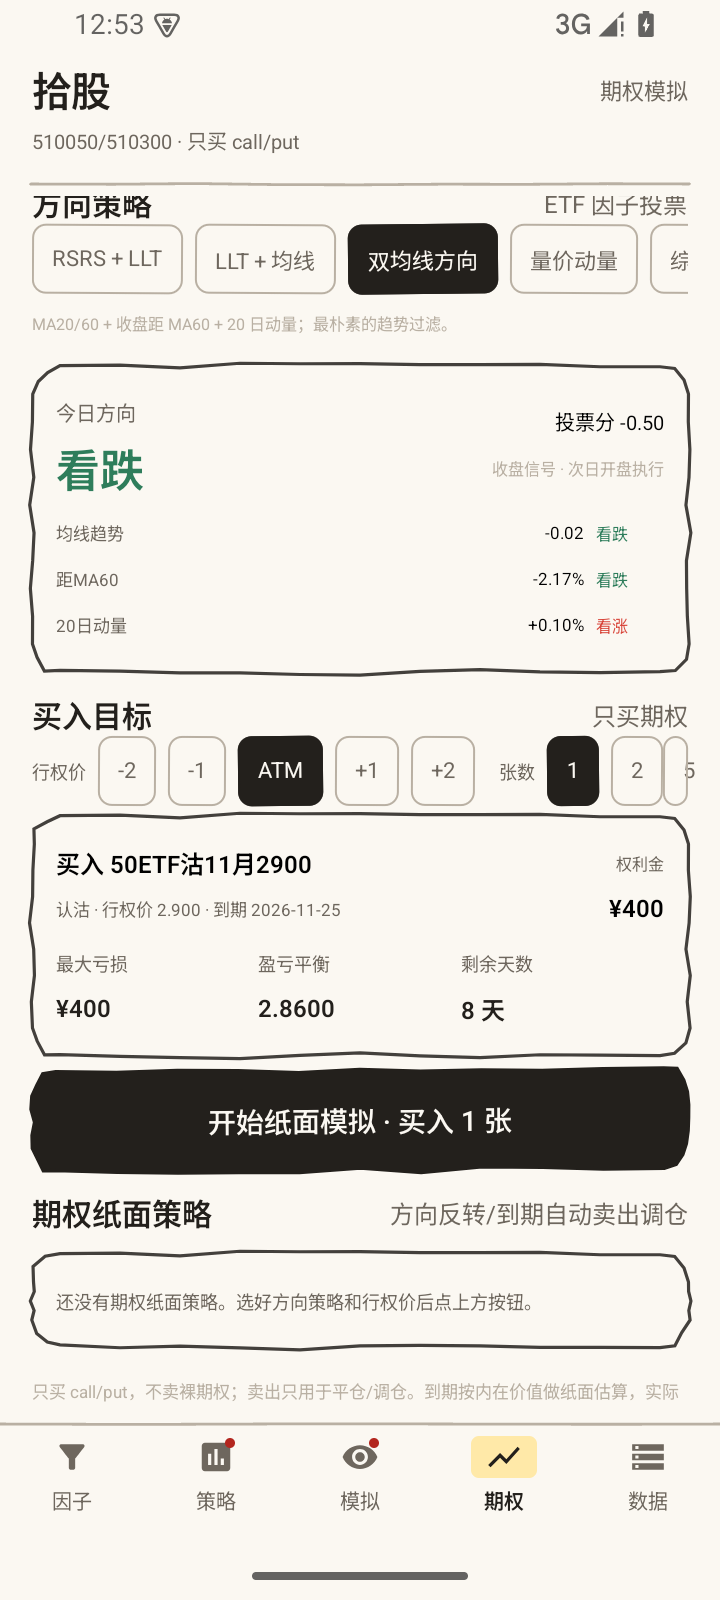
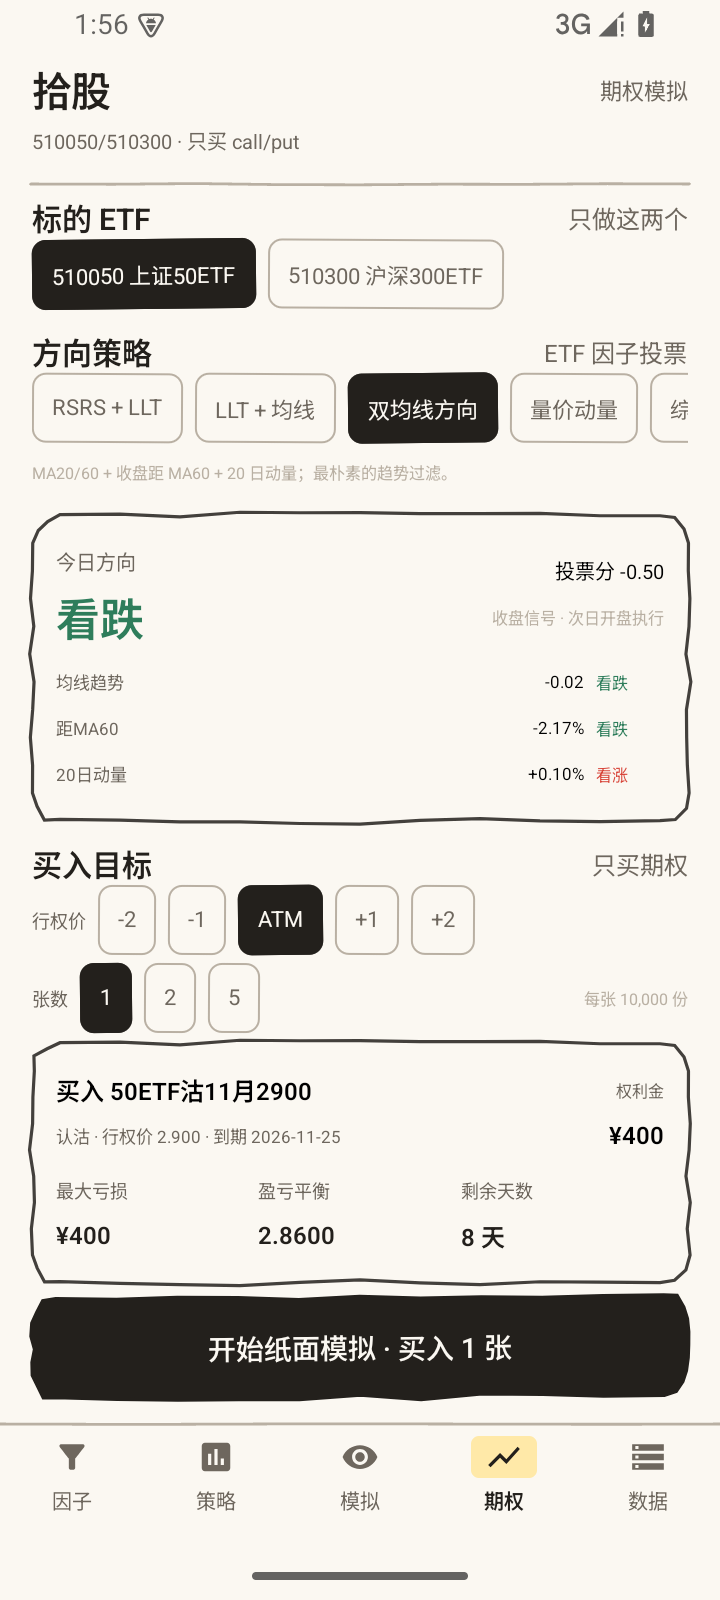
docs: 期权截图与数据说明更新

diff --git a/docs/STATUS.md b/docs/STATUS.md
@@ -38,7 +38,8 @@
   - 目标合约取最近剩余 >=3 天的到期月，ATM/±1/±2，1–20 张；
   - 方向反转、合约到期（剩余 <=2 天）或信号中性时卖出旧仓/买入新仓；同方向不因平值漂移换合约；
   - 显示权利金、最大亏损、盈亏平衡、剩余天数；纸面按快照价盯市，到期按内在价值估算；
-  - 实测东方财富期权链同步 98 个 510050/510300 合约，510050「双均线方向」得到看跌 -0.50，成功创建纸面策略。
+  - 数据：东方财富期权链快照；标的 ETF 日线复用本地数据；当前快照 + 每日纸面，不做历史期权回测；
+  - 实测：同步 98 个 510050 合约 + 116 个 510300 合约；自定义 LLT 正信号得到买入 50ETF购11月2900，成功创建/删除纸面策略。
 - 东方财富 F10 基础资料批量同步已验证：**5,579 只**，报告期 2026-09-30；财报历史 **6,705 条**（含公告日），状态变化历史 6,469 条。
 - 6 个内置策略 + 用户从因子页保存的自定义策略。
 - 回测：100 万初始资金、整手（科创 200）、次日开盘、等权、佣金 8bps + 卖出印花税 5bps + 过户费 + 滑点 5bps、止损/止盈/最大持有、涨停不买/跌停不卖、基准/超额/回撤/夏普、累计费用。
@@ -96,8 +97,9 @@
 - `design/screens/app-strategy-alert.png`：本地测试注入持仓差异后，策略卡红色调仓标志。
 - `design/screens/app-simulation-alert.png`：模拟页“今日调仓”和红标。
 - `design/screens/app-stock.png`：K 线、因子快照、观察入口。
-- `design/screens/app-options.png`：期权页、标的/方向策略/今日方向投票。
-- `design/screens/app-options-target.png`：行权价 ATM/±1/±2、目标合约、权利金/最大亏损/盈亏平衡。
+- `design/screens/app-options.png`：期权页、标的/方向策略/今日方向投票，张数行完整显示 1/2/5。
+- `design/screens/app-options-target.png`：行权价 ATM/±1/±2、看跌目标、权利金/最大亏损/盈亏平衡。
+- `design/screens/app-options-call.png`：自定义 LLT 正信号 → 买入 50ETF购11月2900，纸面持仓。
 - `design/screens/app-options-paper.png`：期权纸面策略卡、持仓与盈亏。
 
 > `app-*-alert.png` 是测试注入数据，用于验证 UI；真实调仓由每日收盘后的 `PaperRepository` 生成。

diff --git a/README.md b/README.md
@@ -34,7 +34,7 @@
   - 自选 ETF 方向因子保存为自定义信号；
   - 方向反转、合约到期或信号中性时卖出旧仓/买入新仓；同方向不因平值漂移换合约；
   - 目标行权价 ATM/±1/±2、1–20 张；显示权利金、最大亏损、盈亏平衡、剩余天数；
-  - 数据：东方财富期权链 + 新浪期权日线；每日日线纸面盯市，不做历史期权回测。
+  - 数据：东方财富期权链快照 + 本地 ETF 日线；每日纸面盯市，不做历史期权回测。
 - **6 个内置策略**（研究依据见 `DESIGN.md` / `docs/QUANT_UI_RESEARCH.md`）：
   - RSRS 右偏趋势
   - 球队硬币（方正金工）
